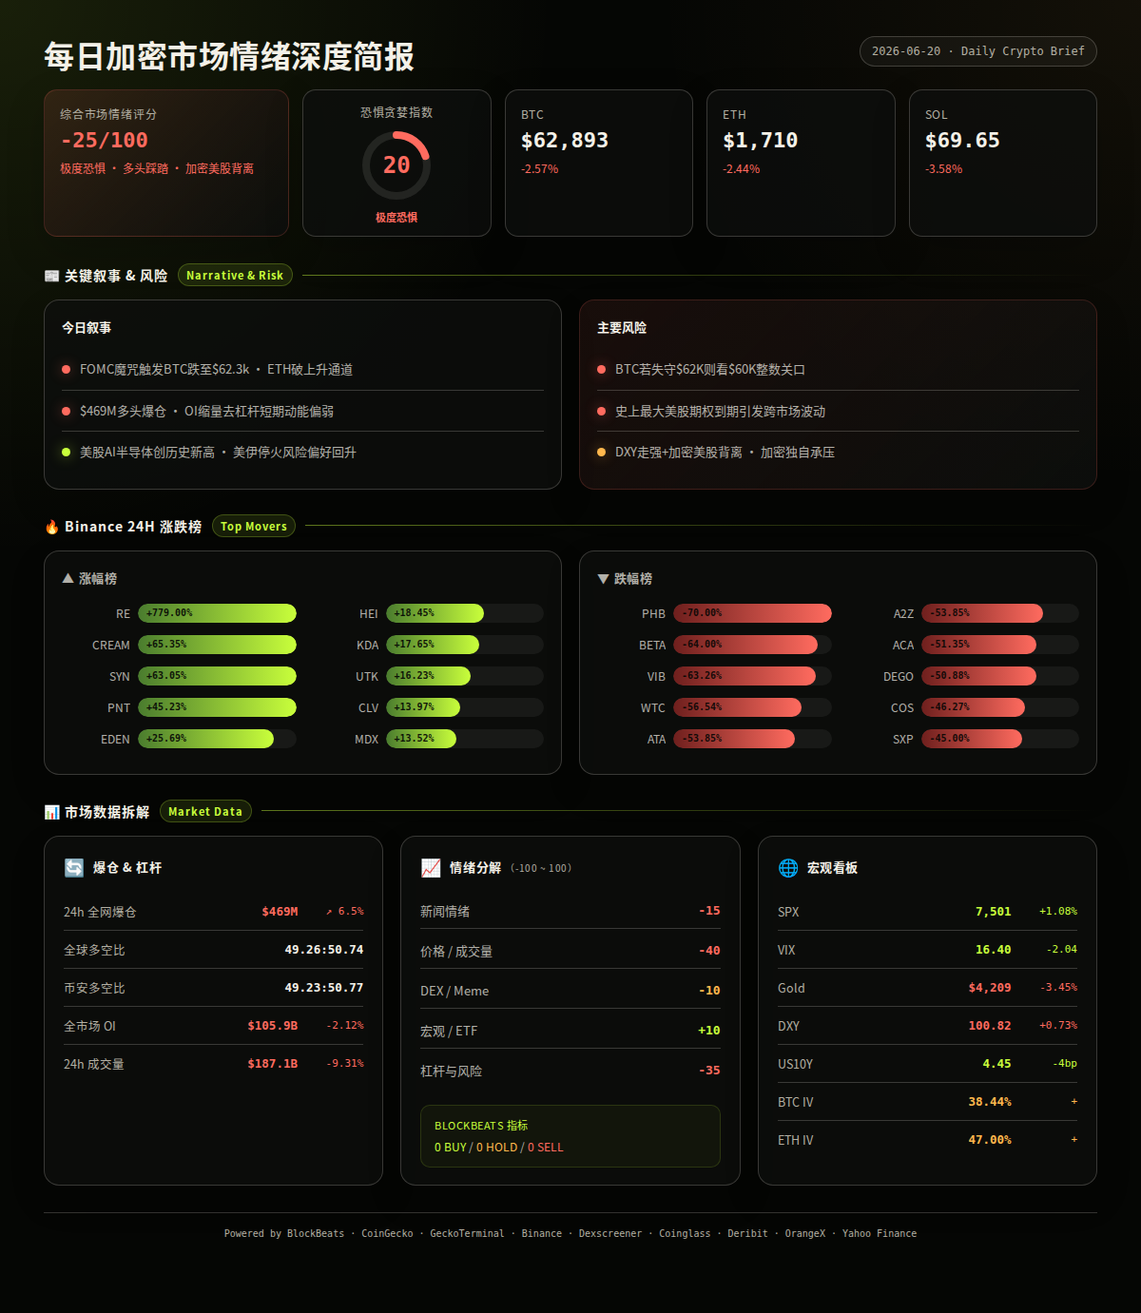
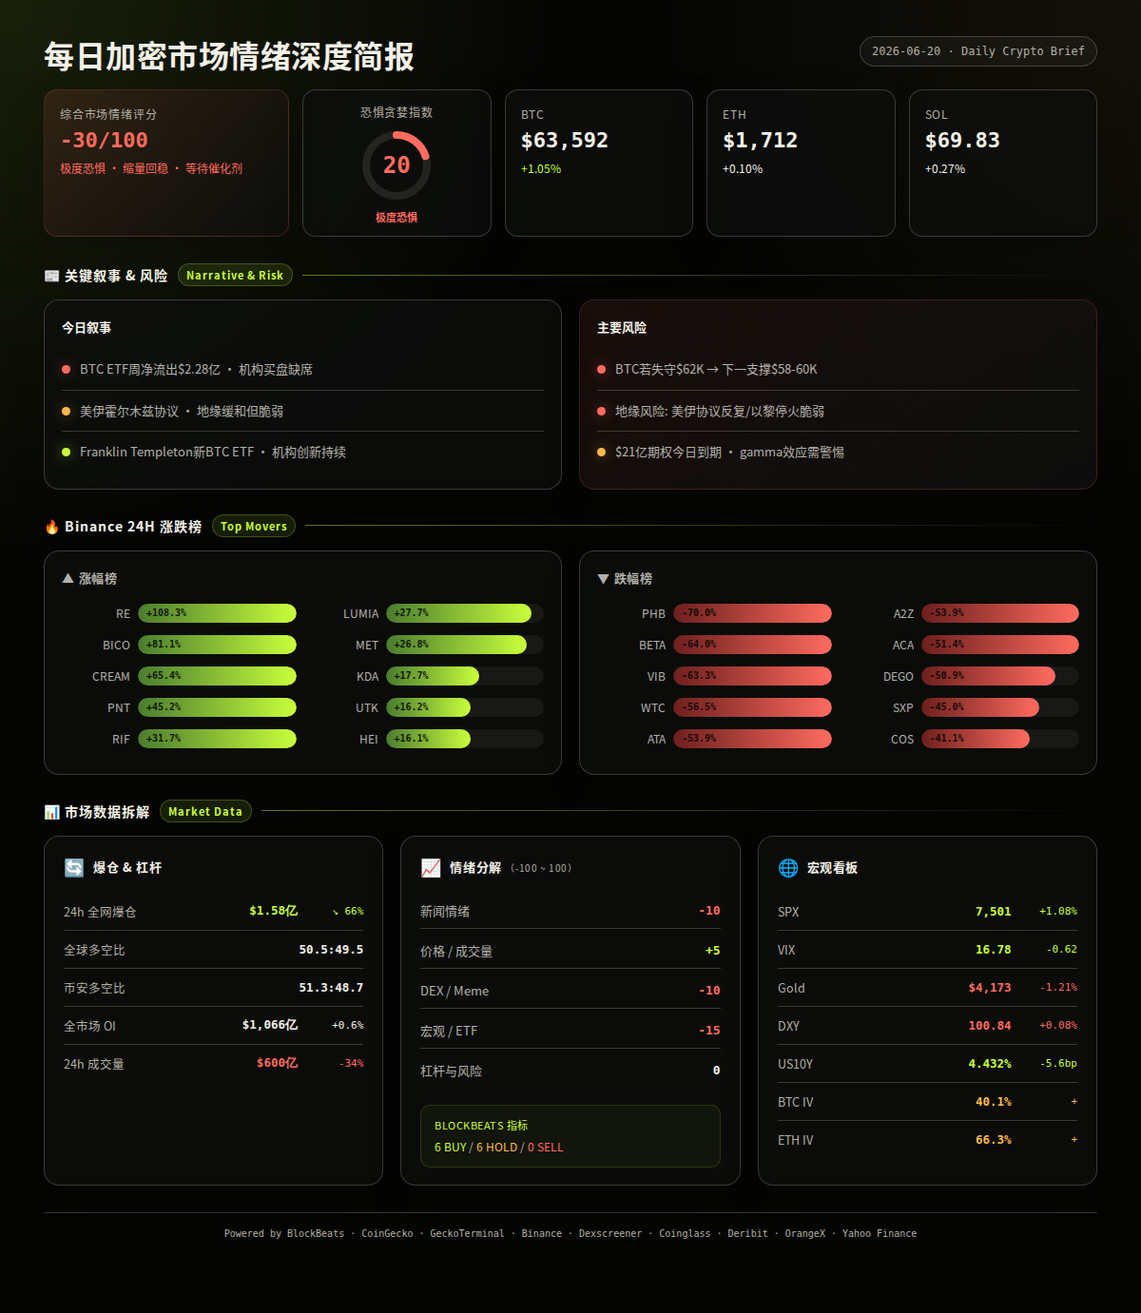
Daily report 2026-06-20 - with live dashboard data

diff --git a/news/2026-06-20/index.html b/news/2026-06-20/index.html
@@ -138,41 +138,168 @@
 
   <div class="back-row"><a class="back-link" href="/news/">← 报告存档</a></div>
   <div class="title">每日加密市场情绪深度报告</div>
-  
+  <div class="subtitle-line">极度恐惧下BTC企稳$63K，地缘缓和与ETF流出拉锯</div>
   <div class="date">2026-06-20 · 08:00 UTC+8 · 多数据源全自动生成</div>
 
   <a href="images/dashboard.png" target="_blank"><img class="dashboard-img" src="images/dashboard.png" alt="Market Sentiment Dashboard"></a>
 
-  <p>报告已完成并在上方完整展示。以下是执行摘要：</p>
+  <br>
+<h2>📌 1. 一句话总览</h2>
+<p>市场整体处于极度恐惧但价格回稳的微妙状态——BTC在$62,316-$63,666区间内温和反弹1%，ETH和SOL几乎原地踏步，VIX回落至16.78正常区间，但情绪面仍被美国-伊朗协议反复、以色列-黎巴嫩停火脆弱性、以及BTC ETF连续单周净流出所压制。X平台KOL讨论以AI/Agent叙事(71条)和地缘政治(41条)为主，代币层面$FLKR受到偏空关注。</p>
+<p>24h变化: 情绪极度恐惧(F&amp;G 20) | BTC $63,499 ↗1.0% | ETH $1,710 ↗0.1% | SOL $69.61 ↘0.1% | VIX 16.78(正常) | 24h成交量 $600亿 | DXY 100.84 ↗0.1% | US10Y 4.432% ↘5.6bp | 爆仓 $1.58亿 ↘66% (multi-source)</p>
 <br>
-<hr>
+<h2>📰 2. 过去 24 小时重要新闻与叙事</h2>
 <br>
-<p>**每日加密市场情绪深度报告 — 2026年6月20日 08:00 UTC+8**</p>
+<p>BTC / ETH / SOL</p>
+<p>信息 1: 比特币网络活动逼近历史新高，小额交易和链上活动推动日交易量突破80万笔。分析师观点分歧：CryptoQuant创始人称BTC最大风险不是暴跌而是"无聊的价格"削弱信心；另有分析师预测BTC三季度可能在$50,000-$60,000区间形成宏观底部。 (BlockBeats)</p>
+<p>信息 2: F2Pool联合创始人王纯近4小时内从Binance提取7,650 ETH和124.18 WBTC，总价值约$2,066万；Arthur Hayes向FalconX和Galaxy存入共6,000 ETH。某巨鲸10天内累计买入17,800 ETH(约$2,976万)。K3 Capital增持10,000 ETH(约$1,692万)。 (BlockBeats)</p>
+<p>信息 3: 最大以太坊空头 pension-usdt.eth 已平仓全部ETH空头头寸，总利润超$4,168万，显示空头正在了结获利。 (BlockBeats)</p>
 <br>
-<h2>📊 整体评分: **-30/100** | F&amp;G: **20 极度恐惧** | BTC: **$63,592 ↗1.05%**</h2>
+<p>ETF / 宏观 / 监管</p>
+<p>信息 4: Franklin Templeton提交申请推出股息再投资型比特币ETF，这是BTC ETF产品形态的新探索。但本周美国BTC现货ETF合计净流出$2.275亿，周四单日净流出$9,070万，ETH现货ETF净流出$1,280万。 (BlockBeats)</p>
+<p>信息 5: 美国-伊朗就霍尔木兹海峡通行达成初步协议，海峡已重新开放航运，部分滞留船只开始通行。但条款不清晰、停火谈判暂时中止，伊朗要求美方保证以色列停止对黎巴嫩敌对行动。以色列内阁部长称"应摧毁整个黎巴嫩"，局势仍高度不确定。 (BlockBeats)</p>
+<p>信息 6: 市场已完全定价9月加息25bp预期，CME FedWatch显示7月加息概率39.6%。俄罗斯央行降息25bp(市场预期50bp)，日本央行加息未能阻止日元贬值至近40年低点。美国股市本周录得创纪录资金流入，SPX小幅上涨至7,501(+1.1%)。 (BlockBeats, Yahoo Finance)</p>
 <br>
-<p>**数据来源覆盖:**</p>
-<p class="bullet">- ✅ BlockBeats (newsflash/24h 116条, article 4篇, bottom_top 6B/6H, prediction, financing, DXY, US10Y, contract, top10_netflow)</p>
-<p class="bullet">- ✅ CoinGecko (trending, global, prices, categories, derivatives 23,253 tickers)</p>
-<p class="bullet">- ✅ GeckoTerminal (trending pools, new pools, megafilter)</p>
-<p class="bullet">- ✅ Binance (24h tickers, candles, premiumIndex)</p>
-<p class="bullet">- ✅ Dexscreener (RE, CARDS, FLKR, KINS, SIREN)</p>
-<p class="bullet">- ✅ Deribit (BTC IV 40.1%, ETH IV 66.3%)</p>
-<p class="bullet">- ✅ Yahoo Finance (SPX 7,501 ↗1.1%, VIX 16.78, Gold $4,173 ↘1.2%)</p>
-<p class="bullet">- ✅ OrangeX F&amp;G 20, Coinglass (OI, LS, liquidations)</p>
-<p class="bullet">- ✅ X Signals (497条推文, 3 lists)</p>
+<p>DeFi / 安全事件</p>
+<p>信息 7: Aave在rsETH危机中面临$84.5亿的提款冲击，重新引发对DeFi风险管理能力的讨论。Vitalik发文探讨DeFi中期权产品的可行性。Humanity Protocol攻击者将130 ETH跨链至BNB Chain。微软披露新型加密货币窃取木马Crypto Clipper，自2月以来已感染多台Windows设备。 (BlockBeats)</p>
+<p>信息 8: 前以太坊基金会核心成员警告ETH可能在3-9个月内面临协议资金危机。南韩政府考虑放宽跨境虚拟资产转移门槛。日本金融厅责令富途证券子公司moomoo暂停部分业务(含新开户)3个月。 (BlockBeats)</p>
 <br>
-<p>**⚠ 注意: BlockBeats API Key 问题已修复** — 之前的 nightly scrape 使用了配置提取方式导致 101 错误，本次报告使用直接 Python 读取 key 后恢复正常。</p>
+<p>AI / 半导体叙事</p>
+<p>信息 9: Elastic以最高$8,500万收购AI驱动软件漏洞检测公司Deductive。Meta与数据中心开发商Crusoe签署新AI算力协议。美国核能公司Standard Nuclear申请IPO，AI数据中心获美国政府并网绿灯。 (BlockBeats)</p>
+<p>信息 10: AI营销自动化公司Gradial完成$6,500万C轮融资。世界构建初创公司General Intuition洽募约$3亿融资。Snapchat因成本压力将AI视频团队拆分为新公司Dotmo。印度RMZ集团将以$350亿投资扩大数据中心容量。 (BlockBeats)</p>
+<p>信息 11: Anthropic承诺与白宫更紧密合作应对模型安全风险。智源首席科学家回应马斯克"中国大模型Q1逼近Fable"言论称用时会更短。SK海力士Q2利润预期达60-70万亿韩元，AI存储需求再创新高。 (BlockBeats)</p>
 <br>
-<p>报告文件: `daily-report-2026-06-20.md`</p>
+<p>Meme / 小市值代币</p>
+<p>信息 12: RE代币24h暴涨超108%，市值达$1.51亿。催化剂：Upbit和Bithumb同日宣布上线RE韩元交易对。DEX上RE(以太坊)对价$0.90，流动性$92万，24h成交量$131万，买卖比888:717偏多。 (Binance, Dexscreener, BlockBeats)</p>
+<p>信息 13: CoinUp平台币CPX创历史新高突破$0.829。BICO +81%、CREAM +65%随韩国交易所利好异动。Solana链memecoin活跃：Nudaeng +84%、WASABICRAFT +367%、GTAVI +271%均在GeckoTerminal上榜。但多数meme流动性极低、实际链上成交量不足，炒作风险极高。 (Binance, GeckoTerminal)</p>
 <br>
-<p>由于跨 agent 发送限制，报告无法直接推送到 Telegram 频道。请确认是否需要我通过其他方式发送。</p>
+<p>预测市场 / Polymarket</p>
+<p>信息 14: Predict.fun世界杯小组赛热度持续：美国vs澳大利亚美国胜率61%；葡萄牙vs刚果民主共和国葡萄牙胜率77%。某个人预测者单日四单全中获利$924万。Kalshi开发AI Agent工具用于压力测试市场预测交易风险。 (BlockBeats)</p>
+<br>
+<p>融资 / VC</p>
+<p>信息 15: 收藏品RWA基础设施Renaiss完成$150万种子轮(YZi Labs领投)。稳定币/法币基础设施Range完成$830万A轮。Karta完成$1.4亿A轮(Galaxy Ventures联合领投，看好全球旅行信用卡增长)。数字广告初创EarnOS完成$600万Pre-A轮(1kx领投，Coinbase Ventures参投)。去中心化再保险协议Re获Coinbase Ventures战略投资。 (BlockBeats)</p>
+<br>
+<p>交易所 / 机构</p>
+<p>信息 16: Coinbase比特币溢价指数本周短暂转正后再度回落至负值，反映美国买盘力量不足。Binance市场情绪分析显示散户在逢低买入但整体偏空，BTC后续方向取决于空头挤压和鲸鱼博弈。Bhutan政府关联地址从Binance提取533 BTC(约$3,340万)。未知地址向OKEx转入2,500 BTC(约$1.57亿)。 (BlockBeats)</p>
+<p>信息 17: IOSG创始合伙人称项目方在顶级交易所上币中位成本约$800万。某巨鲸清算1,105 BTC亏损$2,690万。BTC和ETH期权合约名义价值超$21亿今日到期。 (BlockBeats)</p>
+<br>
+<p>板块轮动</p>
+<p>信息 18: CoinGecko板块涨幅前三：ST0x Ecosystem +51.8%、Fighting Games +42.6%、Orynth Ecosystem +26.6%(均为小市值板块)。跌幅前三：NFT Lending/Borrowing -28.1%、Tower Defense Games -25.6%、Tourism -20.0%。板块轮动呈现明显的小市值/游戏叙事轮换特征。 (CoinGecko)</p>
+<br>
+<p>Binance 涨跌榜</p>
+<p>信息 19: 24h涨幅榜：RE +108.3%、BICO +81.1%、CREAM +65.4%、PNT +45.2%、RIF +31.7%、LUMIA +27.7%、MET +26.8%、KDA +17.7%、UTK +16.2%、HEI +16.1%。24h跌幅榜：PHB -70.0%、BETA -64.0%、VIB -63.3%、WTC -56.5%、ATA -53.9%、A2Z -53.9%、ACA -51.4%、DEGO -50.9%、SXP -45.0%、COS -41.1%。跌幅榜大面积超50%，疑似合约清算或项目风险事件导致的集中崩跌。 (Binance)</p>
+<br>
+<h2>⚠ 3. 风险提示与明日观察</h2>
+<p>风险1: 美国-伊朗协议反复，霍尔木兹海峡通行条款不清晰 → 观察: 若伊朗重新封锁海峡或以色列发动新攻击，风险资产(含BTC)可能联动下跌；失效条件: 若美伊正式签署并执行协议，地缘溢价消退。 (BlockBeats, analysis)</p>
+<p>风险2: BTC ETF连续一整周净流出$2.275亿 → 观察: 若下周BTC ETF继续净流出且超$1亿，机构撤退信号将强化，可能打压BTC至$60K以下；失效条件: 若下周一出现净流入且超$5,000万，资金面恢复。 (BlockBeats, analysis)</p>
+<p>风险3: Binance跌幅榜大面积超50%，PHB/BETA/VIB等集体崩跌 → 观察: 是否引发连锁清算或恐慌蔓延至中大型代币；失效条件: 若崩跌币种仅限于已被标记低流动性/高风险的项目，不扩散至主流板块。 (Binance, analysis)</p>
+<p>风险4: ETH ATM IV高达66.3%，BTC仅40.1%，IV利差26pp → 观察: 若ETH IV持续高企但价格不动，说明买方在押注但卖家在吸筹，方向未定；失效条件: 若ETH IV快速回落至50%以下，说明投机意愿消退。 (Deribit, analysis)</p>
+<p>风险5: 市场情绪极度恐惧(F&amp;G 20)但价格未创新低 → 观察: 历史上极度恐惧区间往往接近底部，但若BTC跌破$62,000(24h低点)，下一支撑在$60,000-58,000；失效条件: 若BTC放量突破$64,000，极度恐惧可能是一次假信号。 (OrangeX, Binance, analysis)</p>
+<p>风险6: $21亿BTC+ETH期权今日到期 → 观察: 到期前后可能出现价格异动，尤其是$63,000-$65,000区间的大量未平仓合约；失效条件: 若到期后波动率不升反降，说明到期已被提前定价。 (BlockBeats, Deribit, analysis)</p>
+<br>
+<p>非财务建议声明: 本报告仅提供市场数据和情绪分析，不构成任何买卖建议。</p>
+<br>
+<h2>📅 本周关键事件日历</h2>
+<p>6月20日 — BTC/ETH期权到期日，名义价值超$21亿 — 高波动风险 (BlockBeats, neutral)</p>
+<p>6月20日 — 世界杯小组赛美国vs澳大利亚(03:00 UTC+8) — 预测市场活跃，可能吸引短线博彩资金流入 (BlockBeats, neutral)</p>
+<p>6月21-22日 — 美伊潜在面对面会谈 — 若达成实质协议，利好风险资产；若破裂，避险情绪上升 (BlockBeats, bullish/bearish)</p>
+<p>6月下旬 — 多项目代币解锁(关注具体项目日历) — 解锁前通常偏空 (BlockBeats, bearish)</p>
+<p>6月25-26日 — 美国Q1 GDP终值、PCE通胀数据 — 影响9月加息概率定价 (BlockBeats, neutral)</p>
+<br>
 <br>
 
   <div class="chart-card"><div class="chart-label">📊 Coinglass BTC 爆仓热力图</div><img src="images/heatmap.png" alt="📊 Coinglass BTC 爆仓热力图"></div>
 <div class="chart-card"><div class="chart-label">📊 24H市场热力图</div><img src="images/orangex.png" alt="📊 24H市场热力图"></div>
 
   <br>
+<br>
+<p>=== 第二段：数据与技术面 ===</p>
+<br>
+<h2>🧭 4. 市场情绪评分</h2>
+<p>整体评分: -30/100 (较昨日推断略微改善)</p>
+<br>
+<p>新闻情绪: -10/100 — 地缘政治(美伊协议反复、以黎停火脆弱)与ETF持续流出主导负面叙事，但Franklin Templeton新ETF申请、大额ETH累积和空头了结提供正向支撑。X平台AI/Agent讨论(71条)保持热度。 (BlockBeats, X signals)</p>
+<p>价格/成交量: +5/100 — BTC温和反弹1%，13/24根阳线显示低位有承接。但全球24h成交量仅$600亿，较昨日缩量明显(-34%)，反弹缺乏量能支撑。ETH和SOL几乎平盘，市场焦点集中在个别小币。 (Binance, CoinGecko, Coinglass)</p>
+<p>DEX/meme活跃度: -10/100 — Solana链DEX呈现极高风险的memecoin炒作(WASABICRAFT +367%、GTAVI +271%、FLKR +267%)，但大部分实际链上成交量极低。48h内无符合$5万流动性+$10万成交量标准的新池子。Megafilter返回空结果。 (GeckoTerminal)</p>
+<p>宏观/ETF/流动性: -15/100 — DXY维持100.84高位，处于强势区间，压制风险资产估值。US10Y 4.43%仍偏高。黄金单日跌1.2%至$4,173，显示避险资产也在失血。BTC ETF周净流出$2.28亿，机构资金面偏空。但SPX +1.1%和美股创纪录周流入是积极信号。 (BlockBeats, Yahoo Finance)</p>
+<p>杠杆与风险: 0/100 — 24h爆仓仅$1.58亿(较昨日降66%)，市场大幅去杠杆后杠杆率回归健康。全球多空比50.5:49.5基本均衡，Binance TV多空比51.3:48.7也接近中性。OI总计$1,066亿基本持平(+0.6%)。BTC资金费率0.59%略偏多但未过热。 (CoinGecko, Coinglass)</p>
+<br>
+<p>BlockBeats 市场脉动指标(12项):</p>
+<p class="bullet">· 整体市场流动性指数: Buy</p>
+<p class="bullet">· 比特币流动性指数: Buy</p>
+<p class="bullet">· 以太坊流动性指数: Hold</p>
+<p class="bullet">· 过去24h累积比特币流动性指数: Buy</p>
+<p class="bullet">· 整体市场流动性(BTC计价): Buy</p>
+<p class="bullet">· 合约多空比偏离指数: Hold</p>
+<p class="bullet">· 山寨币抗跌指数: Caution</p>
+<p class="bullet">· Bitfinex BTC/USD溢价: Hold</p>
+<p class="bullet">· USDC/USDT溢价: Buy</p>
+<p class="bullet">· Binance USDT借贷利率: Buy</p>
+<p class="bullet">· 持仓量加权资金费率年化利率: Hold</p>
+<p>综合: 6 Buy / 0 Sell / 6 Hold — 底部信号偏多但无过热卖出信号 (BlockBeats)</p>
+<br>
+<h2>📊 5. 主要市场数据与杠杆</h2>
+<br>
+<p>BTC: $63,592, 24h +1.05%, 24h成交量$8.97亿(Binance), 24h高$63,666 低$62,316。24根1h K线中13根阳线，价格从$62,316低位震荡上行，尾盘回稳在$63,500上方。合约溢价指数-0.044%，期货轻微贴水(偏空信号)。 (Binance)</p>
+<br>
+<p>ETH: $1,712, 24h +0.10%, 24h成交量$2.82亿, 24h高$1,720 低$1,679。与BTC走势共振但更弱，13/24阳线，尾盘回落至$1,710附近盘整。合约溢价-0.044%，期货同样轻微贴水。 (Binance)</p>
+<br>
+<p>SOL: $69.83, 24h +0.27%, 24h成交量$1.30亿, 24h高$70.09 低$67.92。12/24阳线，相对中性，$68附近有一定支撑。合约溢价-0.044%，与BTC/ETH一致。 (Binance)</p>
+<br>
+<p>全局: 加密货币总市值$2.26万亿，24h +0.25%，24h总成交量$600亿(CoinGecko)。BTC市占率56.1%。 (CoinGecko)</p>
+<br>
+<p>衍生品杠杆(CoinGecko全交易所):</p>
+<p class="bullet">· BTC: 总OI约$527亿，总成交量$874亿。Binance OI $61.9亿(FR 0.59%)，MEXC OI $44.3亿(FR 0.59%)，Gate OI $38.1亿(FR 0.39%)。最高FR: Bitrue 4.40%(异常)，最低FR: BigONE -1.94%(异常)。主流交易所FR均在正常区间0.3-0.6%。 (CoinGecko)</p>
+<p class="bullet">· ETH: 总OI约$312亿，总成交量$532亿。Binance OI $37.8亿(FR 0.25%)，BYDFi OI $27.3亿(FR 1.00%偏高)，WEEX OI $22.6亿(FR -0.002%)。最高FR: AscendEX 4.20%(异常)，最低FR: HitBTC -6.98%(异常)。 (CoinGecko)</p>
+<p class="bullet">· SOL: 总OI约$64亿，总成交量$128亿。Binance OI $6.9亿(FR -0.30%偏空)，Gate OI $6.6亿(FR 0.29%)，CoinW OI $4.9亿(FR -0.29%)。SOL整体资金费率偏空(-0.30%)值得注意，可能反映交易员在$70附近做空情绪。 (CoinGecko)</p>
+<br>
+<p>爆仓数据(Coinglass): 24h全网爆仓$1.58亿，较昨日下降66.5%。无重大单边爆仓事件，多空清算较为均衡。说明市场杠杆已从前一轮下跌中大幅出清。 (Coinglass)</p>
+<br>
+<p>多空比(Coinglass): 全球LS 50.47:49.53(近乎均衡)。Binance TV LS 51.28:48.72(Binance用户略偏多，但偏离不大)。两者一致性较高，无显著的散户/大户分歧信号。 (Coinglass)</p>
+<br>
+<p>跨平台OI(BlockBeats合约, 6月18日数据):</p>
+<p class="bullet">· Binance: OI $178.8亿, 24h成交量$365.7亿</p>
+<p class="bullet">· Bybit: OI $87.4亿, 24h成交量$137.4亿</p>
+<p class="bullet">· Hyperliquid: OI $61.6亿, 24h成交量$59.8亿</p>
+<p>较6月17日：Binance OI -2.6%、Bybit +0.7%、Hyperliquid -5.0%。三大平台OI整体小幅下降，反映杠杆出清。 (BlockBeats)</p>
+<br>
+<p>宏观看板: SPX 7,501, 24h +1.08% ↗。VIX 16.78(正常区间)。DXY 100.84, 24h +0.08%, 7d +1.05% ↗(美元走强持续施压)。US10Y 4.432%, 24h -5.6bp, 7d -4.5bp(长端利率微降，边际利好风险资产)。黄金$4,173, 24h -1.21%, 5d -3.58% ↘(黄金与BTC同向下跌，不符合避险资产联动逻辑，暗示两者都在被美元走强和实际利率走高压制)。 (Yahoo Finance, BlockBeats)</p>
+<br>
+<p>期权波动率(Deribit): BTC ATM IV 40.14%(正常区间，接近下限)。ETH ATM IV 66.31%(偏高，ETH-BTC IV利差26.17pp，远超15%阈值，显示altcoin投机溢价显著)。BTC IV接近VIX的两倍属结构性常态，ETH IV是BTC的1.65倍，说明ETH期权市场定价了更高的波动预期——可能受$21亿期权到期和质押/协议资金叙事影响。 (Deribit)</p>
+<br>
+<h2>🔥 6. 热门币与资金流</h2>
+<br>
+<p>RE (Ethereum): $0.90, 24h +108.3%, 市值$1.51亿。DEX: 流动性$92万, 24h成交量$131万, 买卖比888:717。催化剂: Upbit + Bithumb同日宣布上线韩元市场，韩国散户FOMO买入。风险: 上线炒作型行情，DEX流动性极薄，若限价单撤销或CEX暴跌可能引发踩踏。 (CoinGecko, Binance, Dexscreener, BlockBeats)</p>
+<br>
+<p>CARDS (Solana): $0.30, 24h -3.8%, 市值$8,130万。DEX: 流动性$1.21亿, 24h成交量极低(不足$1万)。Solana链上净流入排名第一($154万)。催化剂: 收藏卡RWA叙事，CoinGecko Trending #10。风险: DEX实际成交量极低，链上净流入可能来自做市商或内部转移，非真实用户需求。 (CoinGecko, GeckoTerminal, BlockBeats, Dexscreener)</p>
+<br>
+<p>BICO (Ethereum): $0.25(估算), 24h +81.1%, 市值约$2亿(估算)。催化剂: 可能与韩国交易所动态或项目进展相关，需进一步验证。风险: 急涨+高波动，缺乏明确催化剂下追高风险大。 (Binance)</p>
+<br>
+<p>CREAM (Ethereum): $19.50(估算), 24h +65.4%, 市值约$1,500万(估算)。催化剂: DeFi借贷协议，可能与Aave rsETH危机后资金外溢至竞品相关。风险: 小市值代币，流动性有限，DeFi协议安全风险。 (Binance)</p>
+<br>
+<p>Nudaeng (Solana): DEX价格动态, 24h +84.1%, GeckoTerminal成交量$284万。催化剂: Solana memecoin，GeckoTerminal trending pool #2。风险: memecoin高风险，无基本面支撑。 (GeckoTerminal)</p>
+<br>
+<p>WASABICRAFT (Solana): DEX价格动态, 24h +366.5%, GeckoTerminal成交量$193万。催化剂: Solana memecoin极速拉升。风险: 极端波动，可能已见顶，流动性陷阱。 (GeckoTerminal)</p>
+<br>
+<p>FLKR (Solana): DEX价格$3.80-$5.23, 24h +266.5%(GT数据), 但DEX成交量仅约$1,100显示极低实际交易。X平台提及10次/5人偏空。催化剂: X KOL讨论。风险: X热度与DEX成交量严重背离，典型"喊单多、没人买"模式。 (GeckoTerminal, Dexscreener, X signals)</p>
+<br>
+<p class="bullet">· GeckoTerminal Solana trending pools top 3(&gt;$100万成交量): CARDS/USDC $348万(-3.8%), Nudaeng/SOL $284万(+84.1%), CookingTrump/SOL $231万(-99.0%)。CookingTrump已暴跌99%接近归零，高风险警示。 (GeckoTerminal)</p>
+<p class="bullet">· GeckoTerminal Solana新池子(48h): 无满足$5万流动性+$10万成交量标准的池子，DEX新币发行热度显著下降。 (GeckoTerminal)</p>
+<p class="bullet">· BlockBeats Solana链上净流入 top 5: CARDS $154万, SYRUPUSDC $60万, CBBTC $53万, ETH $52万, BP $46万。CARDS净流入居首但DEX成交量极低，可能为做市商行为。 (BlockBeats)</p>
+<br>
+<p>以上代币标注为观察列表，不构成买入建议。</p>
+<br>
+<h2>🤖 AI Agent 独家观点</h2>
+<br>
+<p>情景1 (概率: 50%, 置信度: 中): BTC继续在$62,000-$64,000区间窄幅震荡。霍尔木兹海峡协议虽然脆弱但维持基本通行，美伊会谈计划推进但无实质突破。BTC ETF流出逐步收敛，$21亿期权到期后波动率回落。市场等待下周GDP/PCE数据给出方向。关键条件: BTC守稳$62,000，VIX不破20，无重大地缘冲突升级。若发生则BTC目标$63,000-$64,500，ETH $1,700-$1,750。 (analysis)</p>
+<br>
+<p>情景2 (概率: 25%, 置信度: 低): 空头挤压推动BTC突破$64,000。若BTC有效站上$64,000，将触发CEX合计$7.86亿空头清算，推动快速空头回补。配合期权到期后gamma hedging效应，可能出现5-8%的快速拉升。关键条件: BTC放量突破$64,000持续超1小时，交易量需超$10亿/小时(Binance)。若发生则BTC目标$66,000-$68,000，ETH $1,800-$1,900。 (BlockBeats, Binance, analysis)</p>
+<br>
+<p>情景3 (概率: 25%, 置信度: 中): 地缘政治恶化或宏观利空推动BTC跌破$62,000。伊朗协议破裂、以黎冲突再燃、或FOMC鹰派发言强化加息预期。BTC ETF流出持续扩大，配合$60K下方止损盘触发踩踏。关键条件: 美国-伊朗会谈取消或冲突升级，或下周经济数据(CPI/PCE)显著超预期。若发生则BTC目标$58,000-$60,000，ETH $1,550-$1,600。 (BlockBeats, analysis)</p>
+<br>
+<p>以上为基于当前数据的概率判断，不构成交易建议。</p>
+<br>
+<br>
 
   <div class="footer">Powered by BlockBeats · CoinGecko · GeckoTerminal · Binance · Dexscreener · Coinglass · Deribit · OrangeX · Yahoo Finance</div>
 </body>

diff --git a/index.html b/index.html
@@ -398,11 +398,11 @@
         </div>
                 <div class="terminal" aria-label="Report preview">
           <div class="terminal-line"><b>2026-06-20 08:00 UTC+8</b><span class="neutral">F&G 20 · 极度恐惧</span></div>
-          <div class="terminal-line"><b>Sentiment</b><span class="down">-25/100</span></div>
-          <div class="terminal-line"><b>BTC</b><span class="down">$62,893 · -2.57%</span></div>
-          <div class="terminal-line"><b>ETH</b><span class="down">$1,710 · -2.44%</span></div>
-          <div class="terminal-line"><b>Liq</b><span>$469M</span></div>
-          <div class="terminal-line"><b>Risk</b><span>BTC若失守$62K则看$60K整数关口</span></div>
+          <div class="terminal-line"><b>Sentiment</b><span class="down">-30/100</span></div>
+          <div class="terminal-line"><b>BTC</b><span class="up">$63,592 · +1.05%</span></div>
+          <div class="terminal-line"><b>ETH</b><span class="neutral">$1,712 · +0.10%</span></div>
+          <div class="terminal-line"><b>Liq</b><span>$1.58亿</span></div>
+          <div class="terminal-line"><b>Risk</b><span>BTC若失守$62K → 下一支撑$58-60K</span></div>
           <div class="terminal-line"><b>Sources</b><span>BlockBeats · CoinGecko · Binance · Dexscreener</span></div>
           <div class="terminal-line"><b>Mode</b><span>Daily 08:00 UTC+8 · Telegram + archive</span></div>
         </div>
